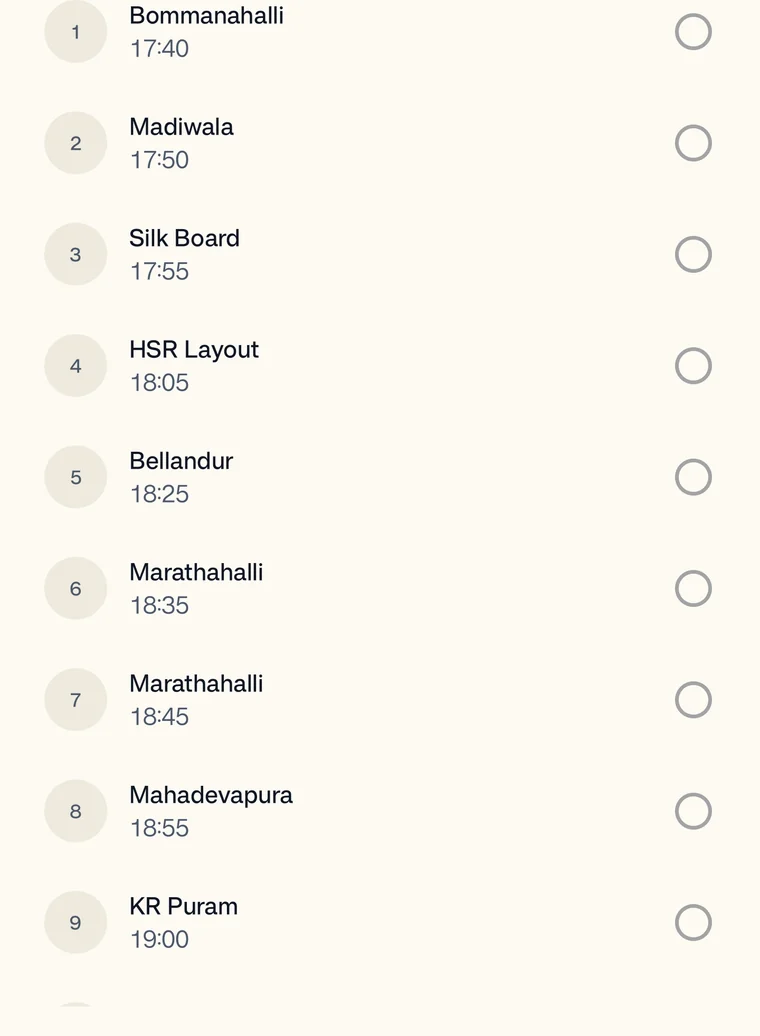
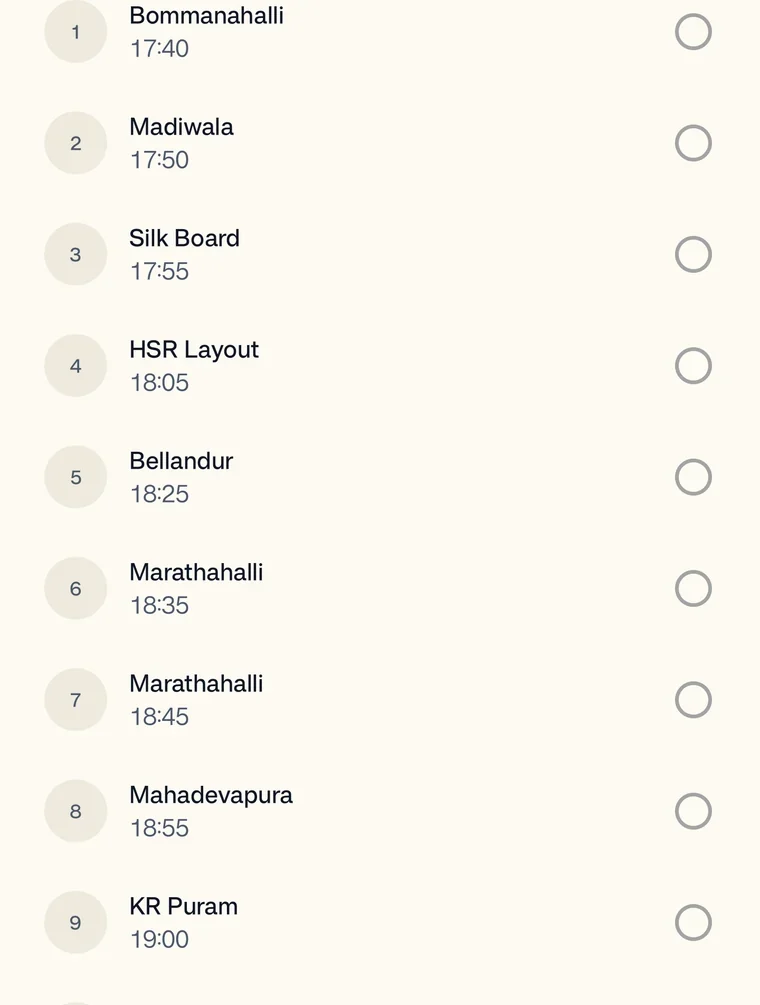
Trim the stop list preview

diff --git a/index.html b/index.html
@@ -454,7 +454,7 @@
           </button>
         </div>
         <div class="stops-dialog__body">
-          <img src="assets/img/screen-allstops.webp" width="760" height="1036" alt="The first stops in the Bus Live list, numbered from Bommanahalli." loading="lazy">
+          <img src="assets/img/screen-allstops.webp?v=2" width="760" height="1005" alt="The first stops in the Bus Live list, numbered from Bommanahalli." loading="lazy">
         </div>
       </div>
     </dialog>
